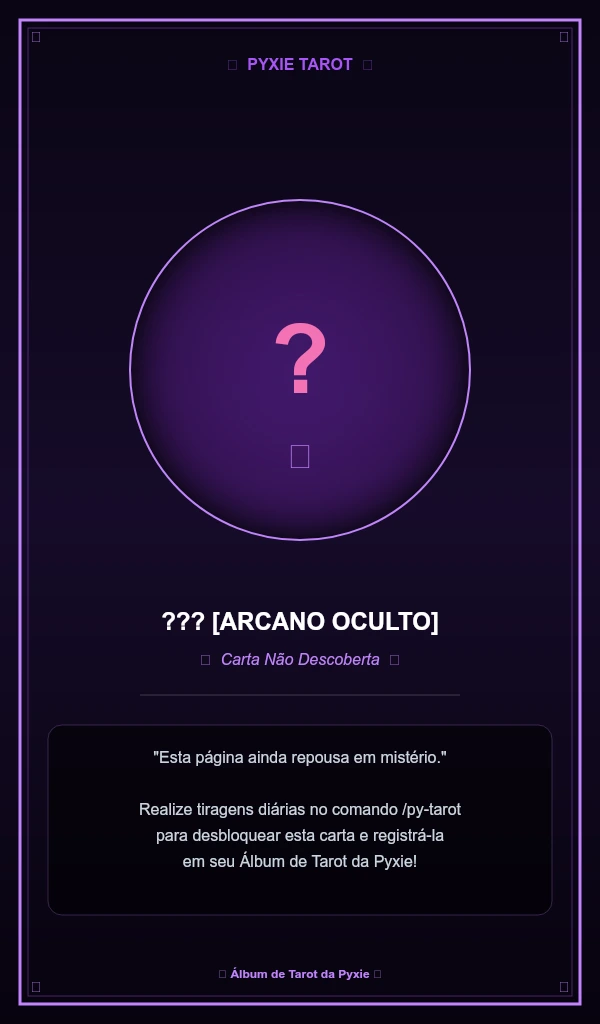
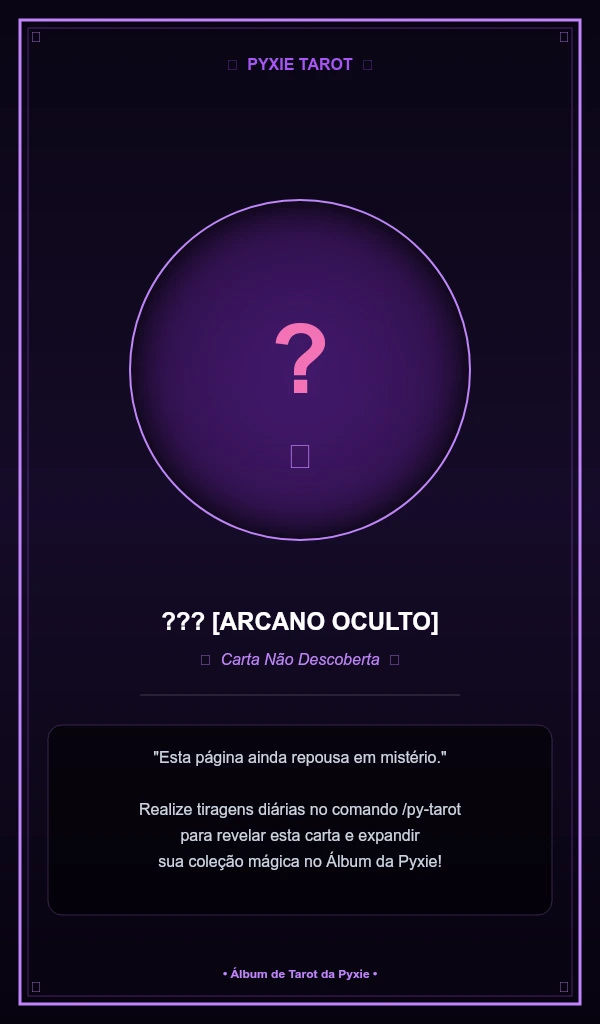
refactor(tarot): refine album cover texts to emphasize collection, art and leisure

Changed region(s): [[0.27, 0.8125, 0.75, 0.875]]

diff --git a/src/utils/i18n.js b/src/utils/i18n.js
@@ -493,14 +493,14 @@ const TRANSLATIONS = {
       "btnGoto": "Ir para...",
       "btnNext": "Avançar",
       "btnLast": "78",
-      "btnAchievements": "🏆 Conquistas & Moedas",
+      "btnAchievements": "🏆 Conquistas do Álbum",
       "btnBackToAlbum": "📖 Folhear Cartas",
       "achievementsTitle": "🏆 Conquistas do Álbum da Pyxie",
       "achievementsSummary": "Conquistas Resgatadas: **{claimed}/7** • Prontas para Resgate: **{ready}**",
-      "claimBtn": "Resgatar {coins} 🪙",
+      "claimBtn": "Resgatar Recompensa 🎁",
       "claimedBadge": "✅ Resgatada",
       "readyBadge": "🟢 PRONTA PARA RESGATE!",
-      "claimSuccess": "🎉 Parabéns! Você resgatou a conquista **{name}** e recebeu **+{coins} Moedas**! Seu novo saldo é de **{balance} Moedinhas**.",
+      "claimSuccess": "🎉 Parabéns! Você concluiu a conquista **{name}** e expandiu seu acervo místico! Recompensa concedida: **+{coins} Moedas** (Saldo: **{balance}**).",
       "claimError": "❌ Não foi possível resgatar esta conquista no momento.",
       "gotoModalTitle": "Ir para Carta do Álbum",
       "gotoModalInputLabel": "Número da Carta (1 a 78)",
@@ -1044,14 +1044,14 @@ const TRANSLATIONS = {
       "btnGoto": "Go to...",
       "btnNext": "Next",
       "btnLast": "78",
-      "btnAchievements": "🏆 Achievements & Coins",
+      "btnAchievements": "🏆 Album Achievements",
       "btnBackToAlbum": "📖 Browse Cards",
       "achievementsTitle": "🏆 Pyxie Album Achievements",
       "achievementsSummary": "Claimed Achievements: **{claimed}/7** • Ready to Claim: **{ready}**",
-      "claimBtn": "Claim {coins} 🪙",
+      "claimBtn": "Claim Reward 🎁",
       "claimedBadge": "✅ Claimed",
       "readyBadge": "🟢 READY TO CLAIM!",
-      "claimSuccess": "🎉 Congratulations! You claimed achievement **{name}** and received **+{coins} Coins**! Your new balance is **{balance} Coins**.",
+      "claimSuccess": "🎉 Congratulations! You completed achievement **{name}** and expanded your mystic collection! Granted reward: **+{coins} Coins** (Balance: **{balance}**).",
       "claimError": "❌ Could not claim this achievement at the moment.",
       "gotoModalTitle": "Go to Album Card",
       "gotoModalInputLabel": "Card Number (1 to 78)",

diff --git a/scripts/generateTarotWebp.js b/scripts/generateTarotWebp.js
@@ -143,8 +143,8 @@ function generateLockedCard() {
     '"Esta página ainda repousa em mistério."',
     '',
     'Realize tiragens diárias no comando /py-tarot',
-    'para desbloquear esta carta e registrá-la',
-    'em seu Álbum de Tarot da Pyxie!'
+    'para revelar esta carta e expandir',
+    'sua coleção mágica no Álbum da Pyxie!'
   ];
   descLines.forEach((l, i) => {
     ctx.fillText(l, cx, boxY + 38 + i * 26);
@@ -153,7 +153,7 @@ function generateLockedCard() {
   // Rodapé
   ctx.fillStyle = '#c084fc';
   ctx.font = 'bold 12px sans-serif';
-  ctx.fillText('✦ Álbum de Tarot da Pyxie ✦', cx, 978);
+  ctx.fillText('• Álbum de Tarot da Pyxie •', cx, 978);
 
   const lockedPath = path.join(dirUi, 'card_locked.webp');
   fs.writeFileSync(lockedPath, canvas.toBuffer('image/webp'));
@@ -248,13 +248,13 @@ function generateAlbumCover() {
   ctx.fillStyle = '#e2e8f0';
   ctx.font = '15px sans-serif';
   const coverLines = [
-    'Complete o baralho místico da Pyxie!',
+    'Colecione as 78 cartas lendárias da Pyxie!',
     '',
-    '• 22 Arcanos Maiores (O Louco ao Mundo)',
-    '• 56 Arcanos Menores (Paus, Copas, Espadas, Ouros)',
-    '• 7 Conquistas Místicas com milhares de Moedas!',
+    '• 22 Arcanos Maiores — Os Grandes Mistérios do Destino',
+    '• 56 Arcanos Menores — Naipes de Paus, Copas, Espadas e Ouros',
+    '• 7 Conquistas Místicas para os Mestres do Oráculo',
     '',
-    'Use /py-album para folhear suas cartas.'
+    'Use /py-album para folhear seu acervo.'
   ];
   coverLines.forEach((l, i) => {
     ctx.fillText(l, cx, boxY + 32 + i * 24);
@@ -263,7 +263,7 @@ function generateAlbumCover() {
   // Rodapé
   ctx.fillStyle = '#fbbf24';
   ctx.font = 'bold 12px sans-serif';
-  ctx.fillText('✦ Pyxie • Bot Mágico de RPG, Economia & Comunidade ✦', cx, 978);
+  ctx.fillText('• Pyxie • O Seu Guia Místico de Tarot & Coleção •', cx, 978);
 
   const coverPath = path.join(dirUi, 'album_cover.webp');
   fs.writeFileSync(coverPath, canvas.toBuffer('image/webp'));
